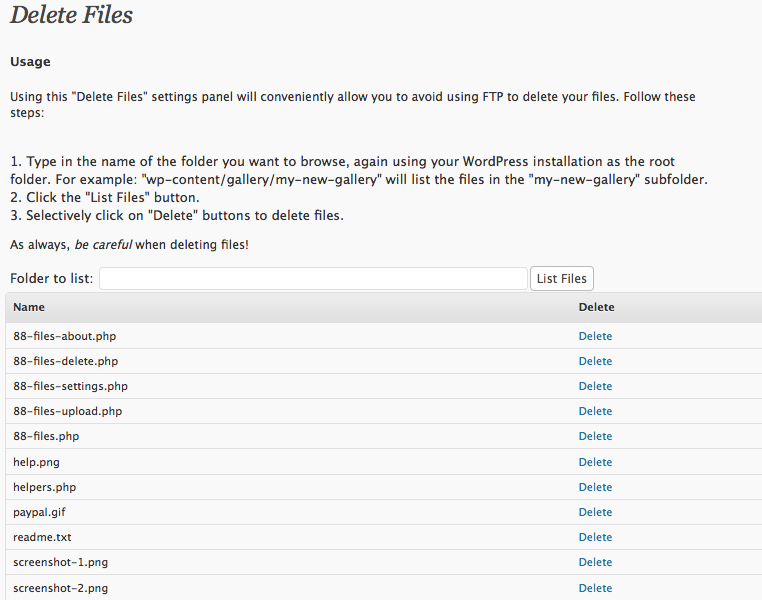
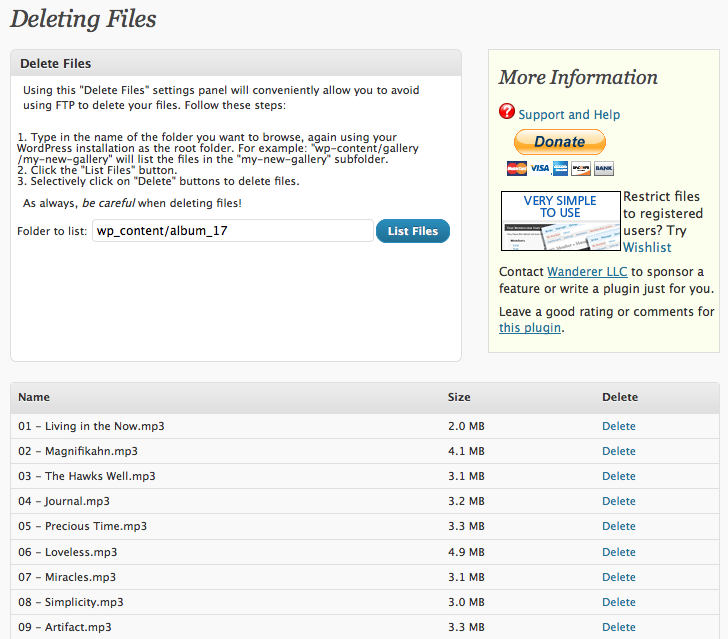
Lots of text updates, affiliate links added
git-svn-id: https://plugins.svn.wordpress.org/list-yo-files/trunk@319477 b8457f37-d9ea-0310-8a92-e5e31aec5664

Changed region(s): [[0.0, 0.09, 1.0, 0.99], [0.0, 0.0, 0.2115, 0.06], [0.7555, 0.9, 0.8764, 0.99]]

diff --git a/information-box.php b/information-box.php
@@ -8,8 +8,8 @@ if ( "on" == $enableUserFolders && !current_user_can( 'delete_users' ) )
 ?>
     	<li><table border="0">
     		<tr>
-    			<td><a href="http://secure.hostgator.com/~affiliat/cgi-bin/affiliates/clickthru.cgi?id=wanderer"><img src="https://tracking.hostgator.com/img/Shared/120x90.gif" border="0"></a></td>
-    			<td>Want to have your own site? Try <a style="text-decoration:none;" href="http://secure.hostgator.com/~affiliat/cgi-bin/affiliates/clickthru.cgi?id=wanderer">HostGator</a>!</td>
+    			<td><a href="http://secure.hostgator.com/~affiliat/cgi-bin/affiliates/clickthru.cgi?id=wanderer" target="_blank"><img src="https://tracking.hostgator.com/img/Shared/120x90.gif" border="0"></a></td>
+    			<td>Want to have your own site? Try <a style="text-decoration:none;" href="http://secure.hostgator.com/~affiliat/cgi-bin/affiliates/clickthru.cgi?id=wanderer" target="_blank">HostGator</a>!</td>
     		</tr>
     	</table></li>
 <?php
@@ -19,16 +19,22 @@ else
 {
 
 ?>
-    	<li><img src="<?php echo $pluginFolder;?>help.png"><a style="text-decoration:none;" href="http://www.wandererllc.com/company/plugins/listyofiles/"> Support and Help</a></li>
-		<li><a style="text-decoration:none;" href="https://www.paypal.com/cgi-bin/webscr?cmd=_s-xclick&hosted_button_id=TC7MECF2DJHHY&lc=US"><img src="<?php echo $pluginFolder;?>paypal.gif"></a></li>
+    	<li><img src="<?php echo $pluginFolder;?>help.png"><a style="text-decoration:none;" href="http://www.wandererllc.com/company/plugins/listyofiles/" target="_blank"> Support and Help</a></li>
+		<li><a style="text-decoration:none;" href="https://www.paypal.com/cgi-bin/webscr?cmd=_s-xclick&hosted_button_id=TC7MECF2DJHHY&lc=US" target="_blank"><img src="<?php echo $pluginFolder;?>paypal.gif"></a></li>
     	<li><table border="0">
     		<tr>
-    			<td><a href="http://member.wishlistproducts.com/wlp.php?af=1080050"><img src="http://www.wishlistproducts.com/affiliatetools/images/WLM_120X60.gif" border="0"></a></td>
-    			<td>Restrict files to registered users? Try <a style="text-decoration:none;" href="http://member.wishlistproducts.com/wlp.php?af=1080050">Wishlist</a></td>
+    			<td><a href="http://member.wishlistproducts.com/wlp.php?af=1080050" target="_blank"><img src="http://www.wishlistproducts.com/affiliatetools/images/WLM_120X60.gif" border="0"></a></td>
+    			<td>Restrict files to registered users? Try <a style="text-decoration:none;" href="http://member.wishlistproducts.com/wlp.php?af=1080050" target="_blank">Wishlist</a></td>
     		</tr>
     	</table></li>
-    	<li>Contact <a href="http://www.wandererllc.com/company/contact/">Wanderer LLC</a> to sponsor a feature or write a plugin just for you.</li>
-    	<li>Leave a good rating or comments for <a href="http://wordpress.org/extend/plugins/list-yo-files/">this plugin</a>.</li>
+    	<li><table border="0">
+    		<tr>
+    			<td><a href="http://www.woothemes.com/amember/go.php?r=39127&i=b18" target="_blank"><img src="http://woothemes.com/ads/120x90c.jpg" border=0 alt="WooThemes - WordPress themes for everyone" width=120 height=90></a></td>
+    			<td>Make your site <em>stunning</em> with <a style="text-decoration:none;" href="http://www.woothemes.com/amember/go.php?r=39127&i=b18" target="_blank">WooThemes for WordPress</a></td>
+    		</tr>
+    	</table></li>
+    	<li>Contact <a href="http://www.wandererllc.com/company/contact/" target="_blank">Wanderer LLC</a> to sponsor a feature or write a plugin just for you.</li>
+    	<li>Leave a good rating or comments for <a href="http://wordpress.org/extend/plugins/list-yo-files/" target="_blank">this plugin</a>.</li>
 <?php
 }
 ?>

diff --git a/88-files-about.php b/88-files-about.php
@@ -224,16 +224,15 @@ else
 	 	<p>
 	 	<table border="0" cellpadding="10">
 	 	<td>
-    	<img src="<?php echo $pluginFolder;?>help.png"><a style="text-decoration:none;" href="http://www.wandererllc.com/company/plugins/listyofiles/"> Support and Help</a><br /><br />
-		<a style="text-decoration:none;" href="https://www.paypal.com/cgi-bin/webscr?cmd=_s-xclick&hosted_button_id=TC7MECF2DJHHY&lc=US"><img src="<?php echo $pluginFolder;?>paypal.gif"></a>
+    		<img src="<?php echo $pluginFolder;?>help.png"><a style="text-decoration:none;" href="http://www.wandererllc.com/company/plugins/listyofiles/" target="_blank"> Support and Help</a><br /><br />
+			<a style="text-decoration:none;" href="https://www.paypal.com/cgi-bin/webscr?cmd=_s-xclick&hosted_button_id=TC7MECF2DJHHY&lc=US" target="_blank"><img src="<?php echo $pluginFolder;?>paypal.gif"></a>
 		</td>
-		<td>
-    	<a href="http://member.wishlistproducts.com/wlp.php?af=1080050"><img src="http://www.wishlistproducts.com/affiliatetools/images/WLM_120X60.gif" border="0"></a><br />
-    	</td>
+		<td><a href="http://member.wishlistproducts.com/wlp.php?af=1080050" target="_blank"><img src="http://www.wishlistproducts.com/affiliatetools/images/WLM_120X60.gif" border="0"></a><br /></td>
+    	<td><a href="http://www.woothemes.com/amember/go.php?r=39127&i=b18" target="_blank"><img src="http://woothemes.com/ads/120x90c.jpg" border=0 alt="WooThemes - WordPress themes for everyone" width=120 height=90></a></td>
     	</table>
     	<br />
-    	Contact <a href="http://www.wandererllc.com/company/contact/">Wanderer LLC</a> to sponsor a feature or write a plugin just for you.<br /><br />
-    	Leave a good rating or comments for <a href="http://wordpress.org/extend/plugins/list-yo-files/">List Yo' Files</a>.
+    	Contact <a href="http://www.wandererllc.com/company/contact/" target="_blank">Wanderer LLC</a> to sponsor a feature or write a plugin just for you.<br /><br />
+    	Leave a good rating or comments for <a href="http://wordpress.org/extend/plugins/list-yo-files/" target="_blank">this plugin</a>.
 		</p>
 	</div>
 </div>

diff --git a/88-files.php b/88-files.php
@@ -2,7 +2,7 @@
 /*
 Plugin Name: List Yo' Files
 Plugin URI: http://www.wandererllc.com/company/plugins/listyofiles/
-Description: Adds the ability to list files by file name for a given folder with hyperlinks to each file making it downloadable.  The plugin can also optimize listing mp3 files into an attractive player.  The plugin admin pages also allow you to conveniently upload and delete files.
+Description: Lets WordPress users display lists of files in their pages and posts in a myriad of interesting ways.
 Version: 1.00
 Author: Wanderer LLC Dev Team
 */
@@ -137,8 +137,6 @@ function LYFDisplayFiles( $params, $mode )
 
 	// The $filelist variable will hold a list of files.
 	$filelist = LYFGenerateFileList( $folder, $link, $filter );
-
-	print_r( $fileList );
 
 	// if there are no items, this folder is empty.
 	if( !count( $filelist ) )

diff --git a/88-files-delete.php b/88-files-delete.php
@@ -82,7 +82,7 @@ else
 {
 ?>
 
-<div id="delete_files" class="postbox" style="width:450px">
+<div id="delete_files" class="postbox" style="width:450px;height:200px">
 <h3 class='hndle'><span>Delete Files</span></h3>
 <div class="inside">
 
